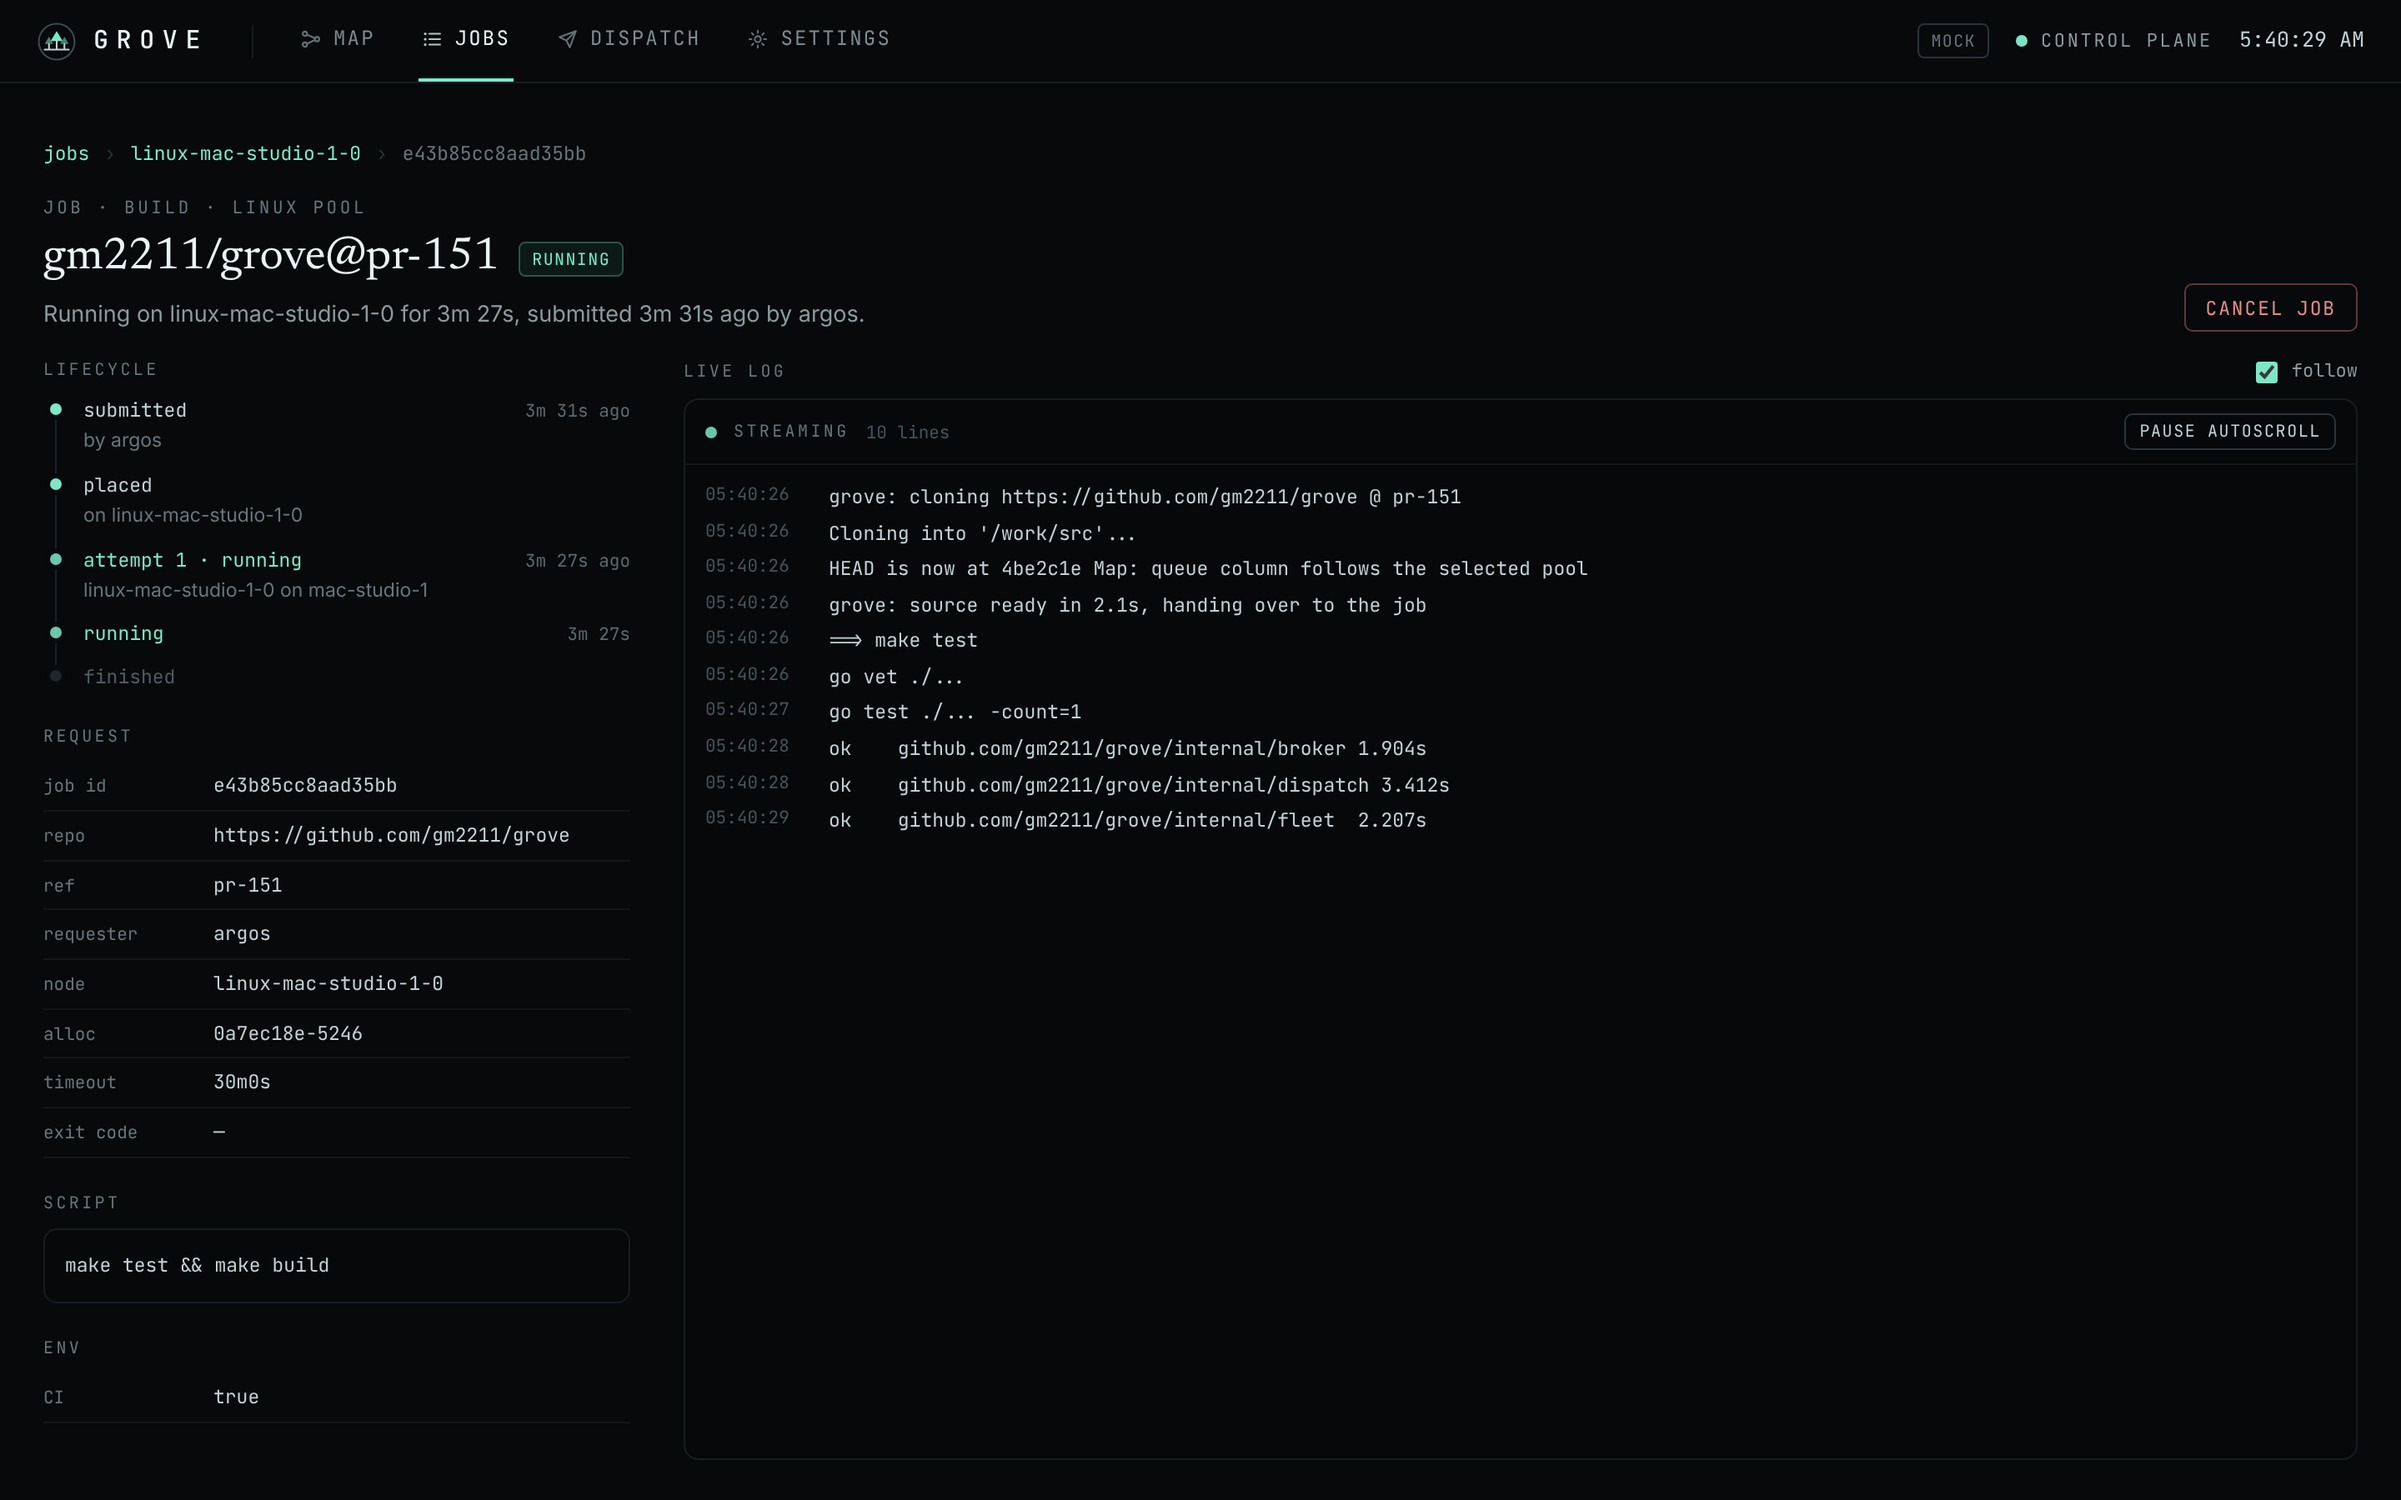
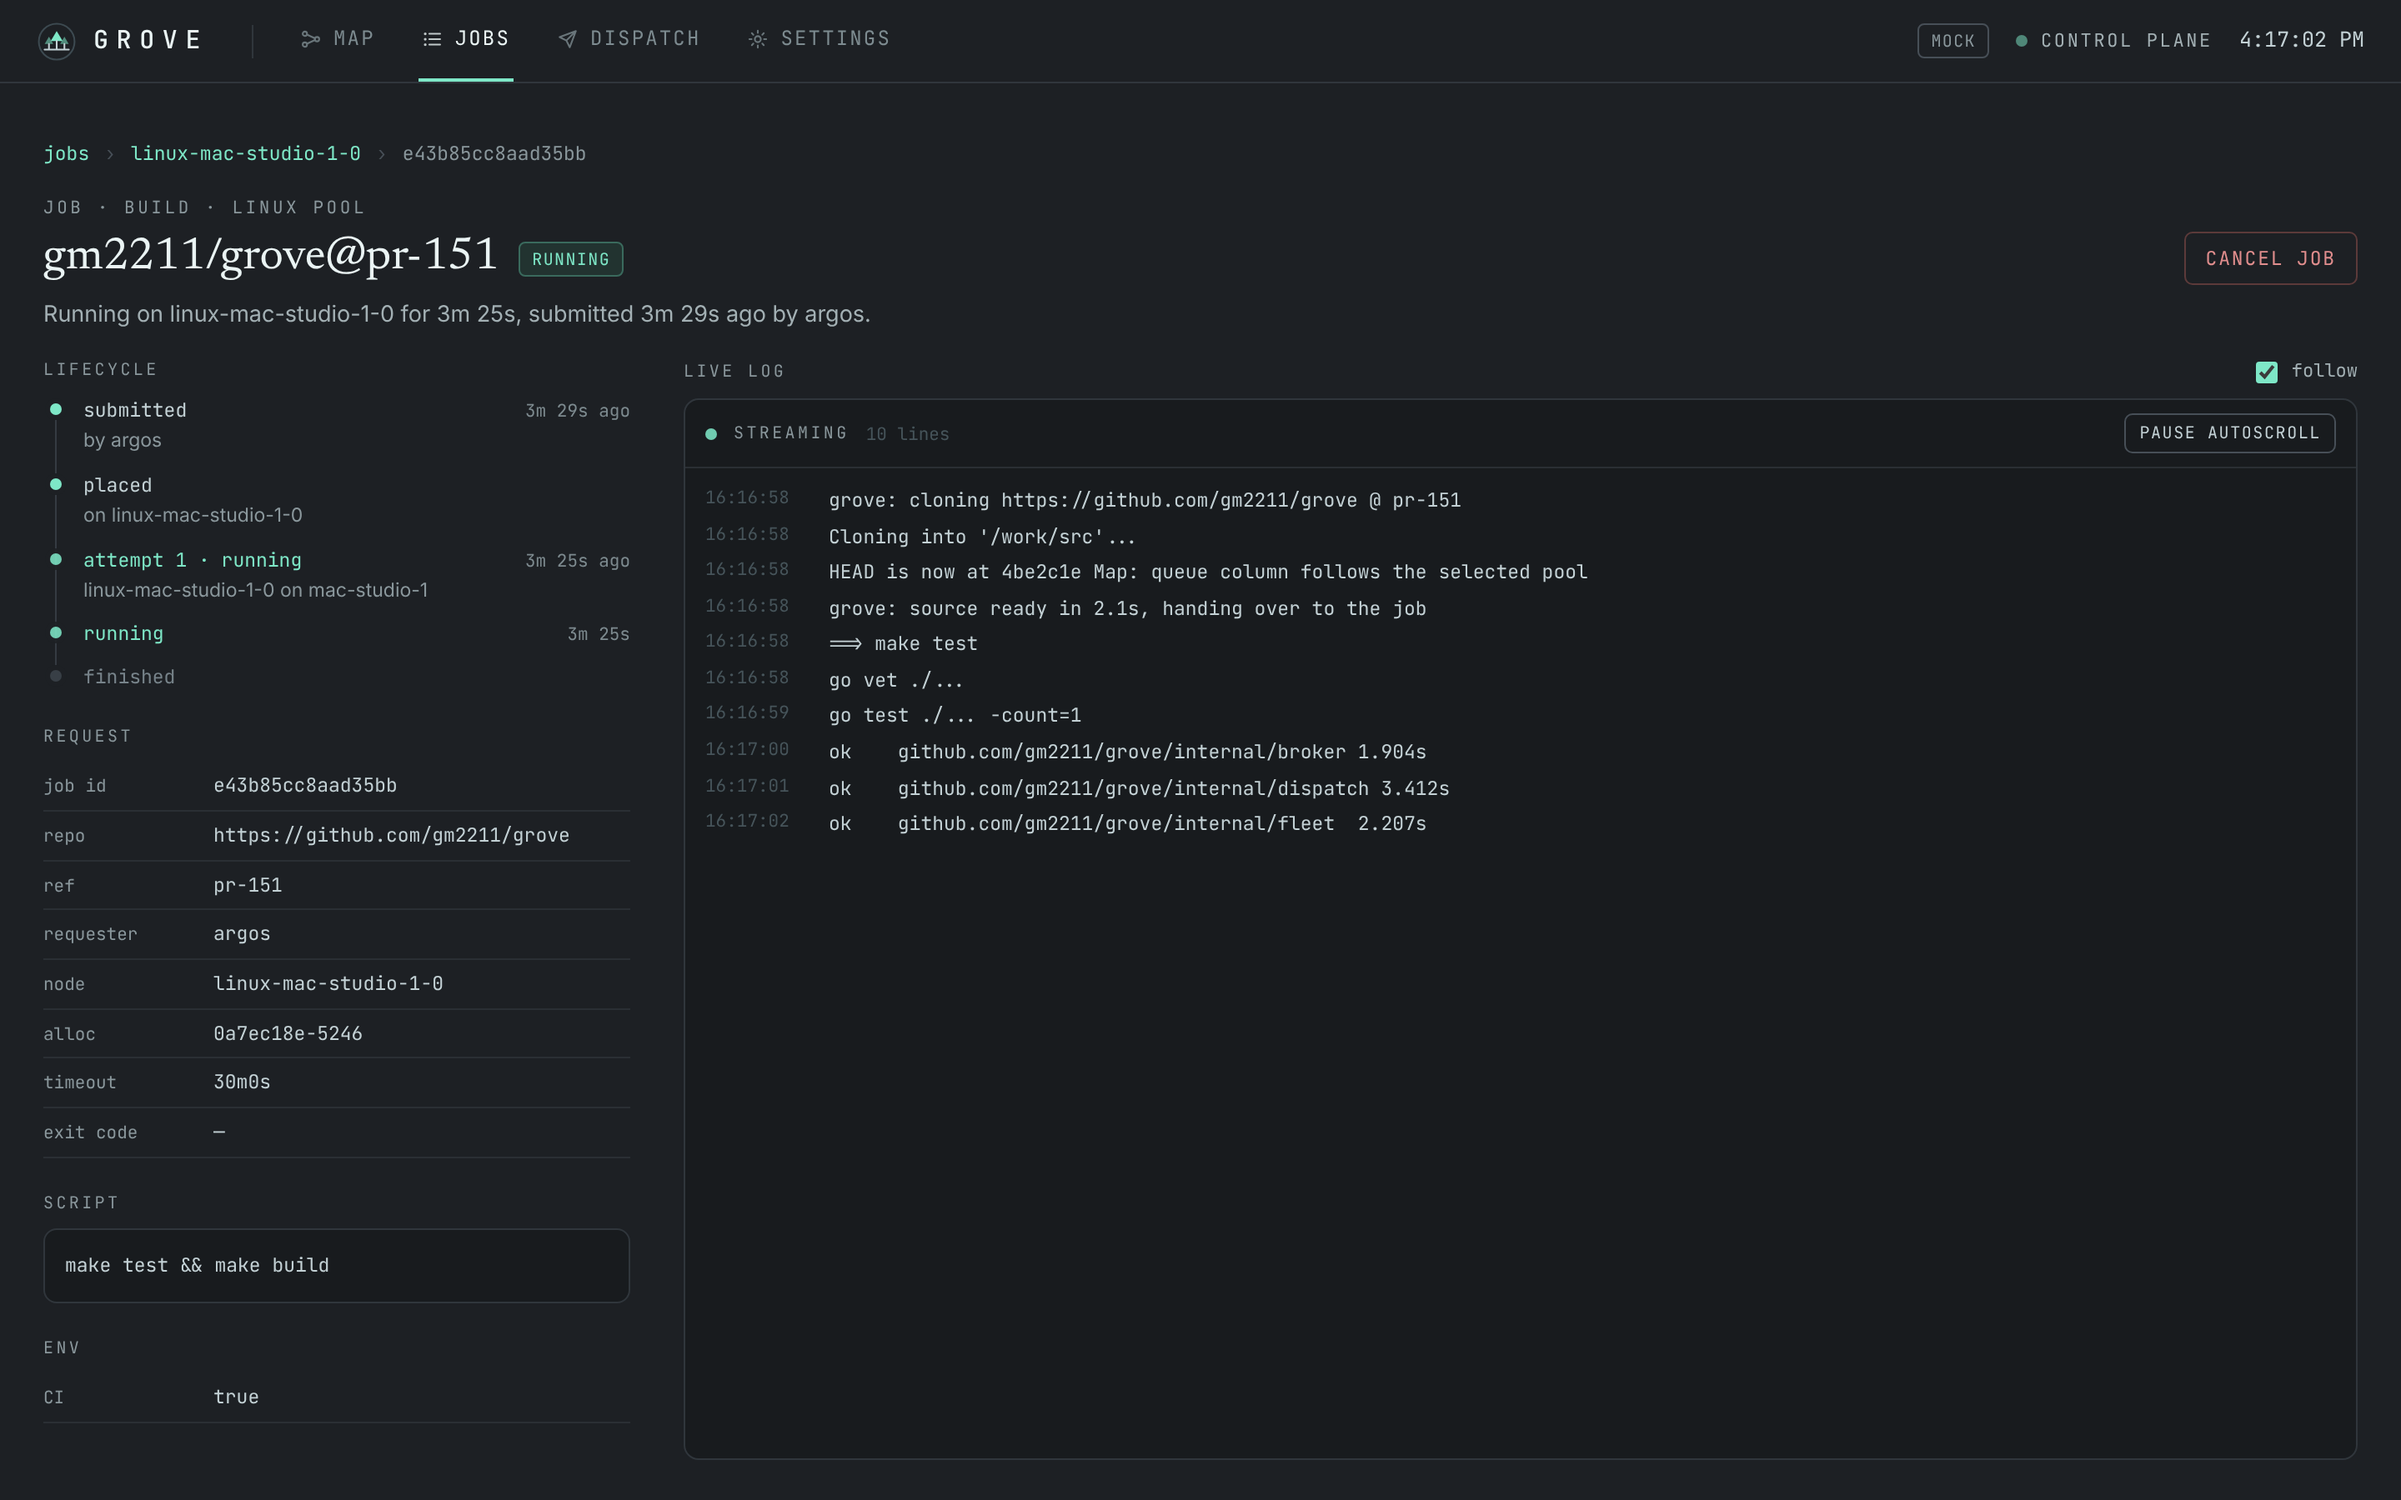
UI: line up controls and header actions; add job search (#214)
Every button, tab, filter chip, toolbar select and form input now takes
its height from one of three tokens (--ctl-h, --ctl-h-sm, --field-h), so
controls that sit on one row are the same height: the Map toolbar, the
Jobs filter row, and Dispatch's kind picker beside the pool select.

ViewHead puts a view's actions on the headline row instead of beside
however many lines the lede wraps to, so the Map toolbar and Cancel job
line up with the title. Settings' two panels stretch to equal height and
share one title-row height.

Jobs gains a search box (id, repo, ref, node, requester, pool), ported
from the September redesign. docs/screenshots regenerated.

Claude-Session: https://claude.ai/code/session_01VBGMKfVnxYQEhseScHf8op

diff --git a/ui/src/pages/Jobs.tsx b/ui/src/pages/Jobs.tsx
@@ -5,7 +5,7 @@ import { api } from "../api/client";
 import { View, ViewHead } from "../components/Layout";
 import { StatusPill, TONES, toneOf } from "../components/StatusPill";
 import { formatJobDuration, formatRelativeAge, shortRepo } from "../lib/format";
-import type { JobStatus } from "../api/types";
+import type { Job, JobStatus } from "../api/types";
 
 const ALL_STATUSES: JobStatus[] = ["running", "pending", "success", "failed", "canceled", "lost"];
 const COLS = "minmax(0,1.1fr) 0.55fr 0.6fr minmax(0,1.5fr) 0.8fr minmax(0,1.2fr) 0.65fr minmax(0,1fr)";
@@ -19,6 +19,7 @@ export function JobsPage() {
   });
   const [statusFilter, setStatusFilter] = useState<string>("all");
   const [poolFilter, setPoolFilter] = useState<string>("all");
+  const [search, setSearch] = useState("");
 
   const all = useMemo(() => data ?? [], [data]);
   const pools = useMemo(() => Array.from(new Set(all.map((j) => j.request.pool))).sort(), [all]);
@@ -33,8 +34,9 @@ export function JobsPage() {
       all
         .filter((j) => statusFilter === "all" || j.status === statusFilter)
         .filter((j) => poolFilter === "all" || j.request.pool === poolFilter)
+        .filter((j) => matches(j, search))
         .sort((a, b) => new Date(b.submittedAt).getTime() - new Date(a.submittedAt).getTime()),
-    [all, statusFilter, poolFilter],
+    [all, statusFilter, poolFilter, search],
   );
 
   const title = isLoading
@@ -59,8 +61,17 @@ export function JobsPage() {
             {s} <span className="n">{counts[s] ?? 0}</span>
           </button>
         ))}
+        <input
+          type="search"
+          className="input compact min-w-0 flex-1 sm:ml-auto sm:w-64 sm:flex-none"
+          placeholder="search jobs"
+          title="matches id, repo, ref, node, requester or pool"
+          value={search}
+          onChange={(e) => setSearch(e.target.value)}
+          aria-label="search jobs"
+        />
         <select
-          className="input ml-auto w-auto py-[6px]"
+          className="input compact w-auto"
           value={poolFilter}
           onChange={(e) => setPoolFilter(e.target.value)}
           aria-label="pool"
@@ -126,10 +137,19 @@ export function JobsPage() {
             </div>
           ))}
           {!isLoading && filtered.length === 0 && (
-            <div className="mapcol-empty px-[18px] py-8">no jobs match this filter</div>
+            <div className="mapcol-empty px-[18px] py-8">no jobs match {search.trim() ? "this search" : "this filter"}</div>
           )}
         </div>
       </div>
     </View>
   );
+}
+
+/** Case-insensitive substring match over the fields a person scans the table for. */
+function matches(job: Job, query: string): boolean {
+  const q = query.trim().toLowerCase();
+  if (!q) return true;
+  return [job.id, job.request.repo, job.request.ref, job.node, job.request.requester, job.request.pool]
+    .filter(Boolean)
+    .some((v) => v!.toLowerCase().includes(q));
 }

diff --git a/ui/src/index.css b/ui/src/index.css
@@ -13,6 +13,10 @@
  * offline.
  */
 :root {
+  /* One height per control size, so buttons, tabs, selects and inputs on a row line up. */
+  --ctl-h: 32px;
+  --ctl-h-sm: 24px;
+  --field-h: 38px;
   color-scheme: dark;
 
   --bg: #1d2024;
@@ -224,6 +228,13 @@ button {
   border: 1px solid var(--border);
   border-radius: 10px;
 }
+/* A panel's title row: kicker plus optional pill, same height whether or not the pill is there. */
+.panel-head {
+  display: flex;
+  align-items: center;
+  gap: 9px;
+  min-height: 20px;
+}
 
 .chip {
   font-family: var(--font-mono);
@@ -266,7 +277,12 @@ button {
   letter-spacing: 0.08em;
   text-transform: uppercase;
   line-height: 1;
-  padding: 8px 12px;
+  display: inline-flex;
+  align-items: center;
+  justify-content: center;
+  gap: 6px;
+  height: var(--ctl-h);
+  padding: 0 12px;
   border-radius: 5px;
   background: transparent;
   border: 1px solid var(--border-3);
@@ -288,7 +304,8 @@ button {
 }
 .act.sm {
   font-size: 10px;
-  padding: 5px 8px;
+  height: var(--ctl-h-sm);
+  padding: 0 8px;
 }
 .act-rec {
   border-color: var(--accent);
@@ -330,8 +347,8 @@ button {
 }
 
 .iconbtn {
-  width: 30px;
-  height: 30px;
+  width: var(--ctl-h);
+  height: var(--ctl-h);
   flex: none;
   display: flex;
   align-items: center;
@@ -360,7 +377,10 @@ button {
   font-size: 11.5px;
   letter-spacing: 0.1em;
   text-transform: uppercase;
-  padding: 7px 13px;
+  display: inline-flex;
+  align-items: center;
+  height: calc(var(--ctl-h) - 2px);
+  padding: 0 13px;
   background: transparent;
   color: var(--fg-muted);
   border: 0;
@@ -383,7 +403,8 @@ button {
   display: inline-flex;
   align-items: center;
   gap: 7px;
-  padding: 6px 11px;
+  height: var(--ctl-h);
+  padding: 0 11px;
   border: 1px solid #383f46;
   border-radius: 7px;
   background: transparent;
@@ -439,6 +460,25 @@ button {
   border-radius: 7px;
   padding: 9px 11px;
   transition: border-color 140ms ease;
+}
+input.input,
+select.input {
+  height: var(--field-h);
+}
+/* A toolbar-sized select or search box, sitting beside .selbtn / .act on one row. */
+.input.compact {
+  height: var(--ctl-h);
+  padding-top: 0;
+  padding-bottom: 0;
+}
+/* Inside a form, a segmented control is as tall as the inputs next to it. */
+.field > .seg .systab {
+  height: calc(var(--field-h) - 2px);
+}
+/* Iconbtn beside a form input (e.g. an env row's remove button) matches the input. */
+.field .iconbtn {
+  width: var(--field-h);
+  height: var(--field-h);
 }
 .input:hover {
   border-color: var(--border-3);

diff --git a/ui/src/components/Layout.tsx b/ui/src/components/Layout.tsx
@@ -130,13 +130,15 @@ export function ViewHead({
   actions?: React.ReactNode;
 }) {
   return (
-    <div className="flex flex-wrap items-end gap-4">
-      <div className="flex max-w-[74ch] flex-col gap-[7px]">
-        <span className="kicker">{kicker}</span>
-        <h1 className="headline m-0">{title}</h1>
-        {lede && <p className="lede m-0">{lede}</p>}
+    <div className="flex flex-col gap-[7px]">
+      <span className="kicker">{kicker}</span>
+      {/* Actions share the headline's row, so they line up with the title rather than floating
+          beside however many lines the lede wraps to. */}
+      <div className="flex flex-wrap items-center gap-x-4 gap-y-3">
+        <h1 className="headline m-0 min-w-0">{title}</h1>
+        {actions && <div className="flex flex-wrap items-center gap-2 sm:ml-auto">{actions}</div>}
       </div>
-      {actions && <div className="ml-auto flex flex-wrap items-center gap-2">{actions}</div>}
+      {lede && <p className="lede m-0 max-w-[74ch]">{lede}</p>}
     </div>
   );
 }

diff --git a/ui/src/pages/Settings.tsx b/ui/src/pages/Settings.tsx
@@ -36,11 +36,13 @@ export function SettingsPage() {
         title="Connection and credentials"
         lede="Where this UI sends its requests, and the one control-plane setting an operator can change from here."
       />
-      <div className="grid max-w-5xl grid-cols-1 items-start gap-5 lg:grid-cols-2">
+      <div className="grid max-w-5xl grid-cols-1 items-stretch gap-5 lg:grid-cols-2">
         <section className="panel flex flex-col gap-4 p-5">
-          <span className="kicker" style={{ fontSize: 10 }}>
-            Control plane
-          </span>
+          <div className="panel-head">
+            <span className="kicker" style={{ fontSize: 10 }}>
+              Control plane
+            </span>
+          </div>
           {!localBridge && (
             <label className="field">
               <span className="label">grove server URL</span>

diff --git a/ui/src/pages/Dispatch.tsx b/ui/src/pages/Dispatch.tsx
@@ -159,7 +159,7 @@ export function DispatchPage() {
                   setEnv((rows) => rows.map((r, idx) => (idx === i ? { ...r, value: e.target.value } : r)))
                 }
               />
-              <Button type="button" size="icon" className="h-[38px] w-[38px]" title="remove" onClick={() => setEnv((rows) => rows.filter((_, idx) => idx !== i))}>
+              <Button type="button" size="icon" title="remove" onClick={() => setEnv((rows) => rows.filter((_, idx) => idx !== i))}>
                 ✕
               </Button>
             </div>

diff --git a/ui/src/components/PrivateRepoSourcing.tsx b/ui/src/components/PrivateRepoSourcing.tsx
@@ -171,7 +171,7 @@ function Row({ k, v }: { k: string; v: string }) {
 function Section({ children, on }: { children: ReactNode; on?: boolean }) {
   return (
     <section className="panel flex flex-col gap-4 p-5">
-      <div className="flex items-baseline gap-[9px]">
+      <div className="panel-head">
         <span className="kicker" style={{ fontSize: 10 }}>
           Private repository sourcing
         </span>
